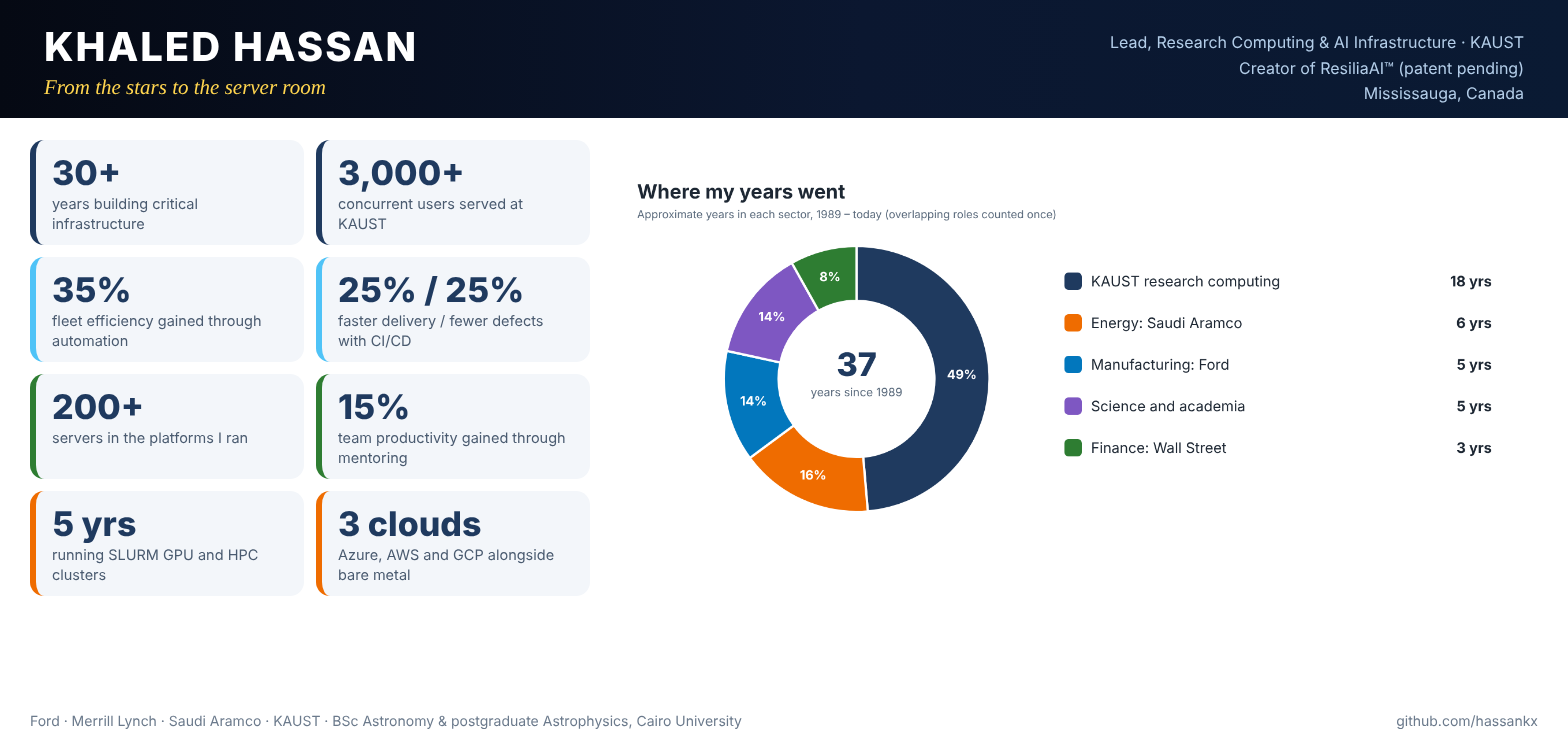
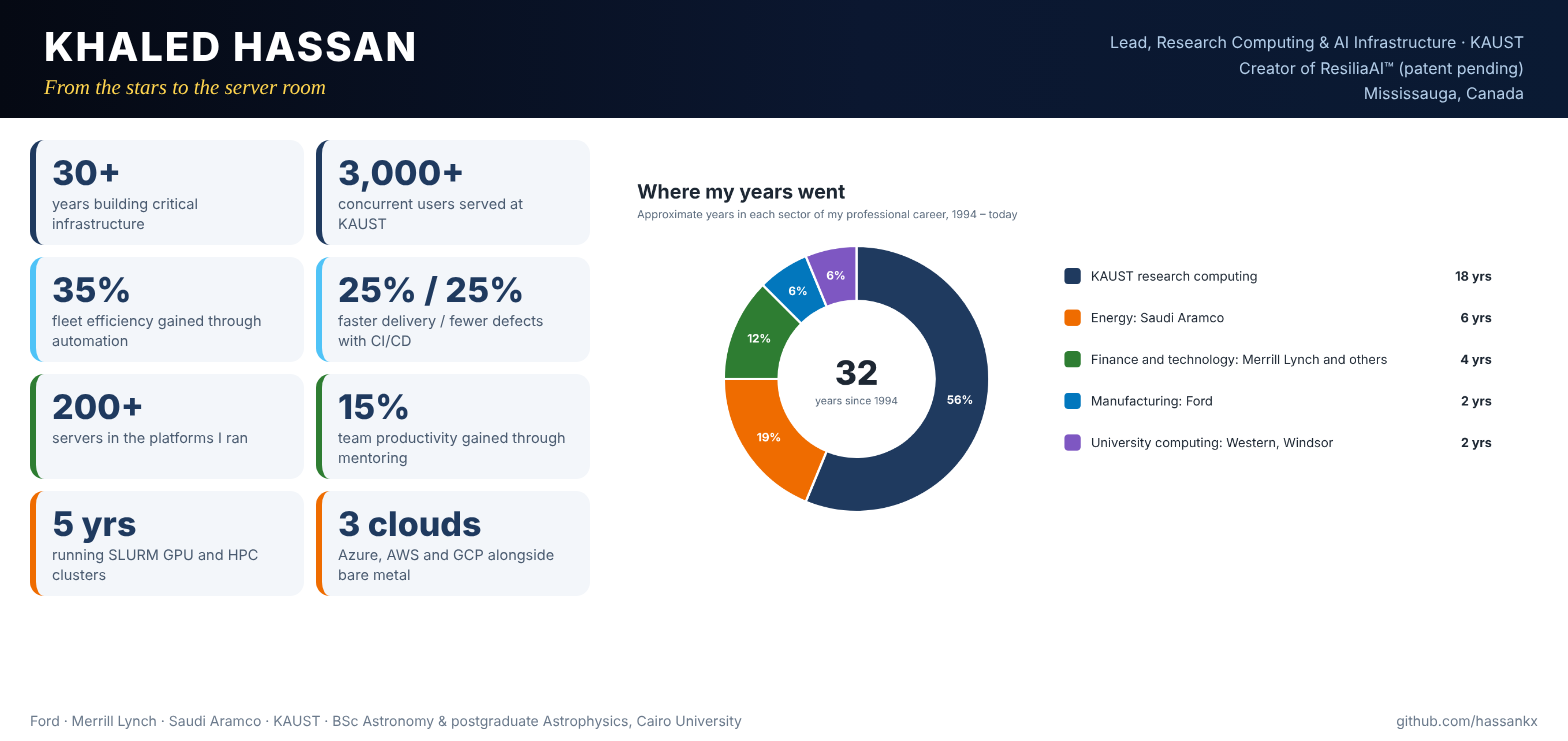
Align career history, charts and education with updated CV
Claude-Session: https://claude.ai/code/session_01MJNc3qNzhZ8CQBcSTnfG9L

diff --git a/README.md b/README.md
@@ -37,7 +37,7 @@ I trained as an **astrophysicist** and became an **infrastructure engineer**. Fo
 <td align="center" width="25%"><h2>30+</h2><sub>years building critical infrastructure</sub></td>
 <td align="center" width="25%"><h2>3,000+</h2><sub>concurrent users served at KAUST</sub></td>
 <td align="center" width="25%"><h2>200+</h2><sub>servers in the platforms I ran</sub></td>
-<td align="center" width="25%"><h2>9</h2><sub>employers, including Ford, Merrill Lynch, Saudi Aramco and KAUST</sub></td>
+<td align="center" width="25%"><h2>10</h2><sub>organizations, including Ford, Merrill Lynch, Saudi Aramco and KAUST</sub></td>
 </tr>
 <tr>
 <td align="center"><h2>35%</h2><sub>fleet efficiency gained through automation</sub></td>
@@ -63,7 +63,7 @@ I came to computing through science. My degrees are in astronomy and astrophysic
 
 I still work that way. I start from measurements, form a hypothesis, test it, and only then change something.
 
-In 1994 I moved from science into engineering as a UNIX system administrator at Ford Motor Company, running the servers behind its worldwide CAD/CAM/CAE engineering data, while also working in university computing at Western University and the University of Windsor. Since then my career has taken me through some of the most demanding environments an engineer can work in. I ran Sun Enterprise 10000 systems as a consultant, supported trading systems on Wall Street and helped rebuild them after September 11. I kept mission-critical systems running for one of the world's largest energy companies. For nearly two decades I have helped build and run the research computing behind King Abdullah University of Science and Technology, from before the university opened its doors to today's hybrid platform of HPC, GPU clusters, Kubernetes and three public clouds.
+In 1994 I moved from science into engineering, first in university computing at Western University and the University of Windsor, then as a UNIX system administrator at Ford Motor Company, running the servers behind its CAD/CAM/CAE engineering data. Since then my career has taken me through some of the most demanding environments an engineer can work in. I supported Sun systems for Chase Manhattan Bank, Motorola and Dow Jones, ran Sun Enterprise 10000 trading systems on Wall Street and helped rebuild them after September 11. I kept mission-critical systems running for one of the world's largest energy companies. For nearly two decades I have helped build and run the research computing behind King Abdullah University of Science and Technology, from before the university opened its doors to today's hybrid platform of HPC, GPU clusters, Kubernetes and three public clouds.
 
 Each of those places taught me the same lesson from a different angle. **Systems fail. What matters is how quickly you notice, how safely you recover, and whether you learn enough to stop it happening again.** I have spent my career getting better at all three and passing that on. I have managed and mentored engineers for more than five years across KAUST and Saudi Aramco, and I measure a good team by how calm it is during an outage.
 
@@ -77,7 +77,7 @@ I am a Canadian citizen based in Mississauga, Ontario.
 
 ## 🛰 My journey
 
-<p align="center"><img src="assets/chart-career-timeline.png" width="100%" alt="Career timeline from 1989 to today"></p>
+<p align="center"><img src="assets/chart-career-timeline.png" width="100%" alt="Career timeline from 1991 to today"></p>
 
 <p align="center"><img src="assets/chart-years-by-sector.png" width="100%" alt="Years in each sector"></p>
 
@@ -118,41 +118,49 @@ I am a Canadian citizen based in Mississauga, Ontario.
 
 | Challenge | What I did | Result |
 | --- | --- | --- |
-| Trading and forecasting ran on Sun Enterprise systems | Supported the UNIX infrastructure behind them | Stable trading platforms |
-| September 11 displaced entire trading teams | Helped rebuild trading environments so teams could resume work | Teams back to work when it mattered most |
+| Trading and forecasting ran on Sun Enterprise 10000 systems | Planned, implemented and operated the E10000 production servers, with Sun HA clusters across data centre sites and Sun Cluster 2.x for Oracle | Highly available trading platforms |
+| September 11 displaced entire trading teams | Rebuilt servers and executed the data recovery plan, restoring operations and data safely | Teams back to work when it mattered most |
+| Disaster recovery had to be real, not a document | Planned and ran the Sun Enterprise disaster-recovery infrastructure; designed backups with VERITAS NetBackup, Legato and HP OmniBack | Dependable recovery |
+| Operations were manual | Automated daily, weekly and monthly tasks with C, Korn and Bourne shell, Perl and C; wrote the E10000 and SSP run book | Less manual work, repeatable operations |
+| The business needed to plan infrastructure spend | Built infrastructure cost forecasts and what-if scenarios, and defined cost drivers and KPIs for monthly scorecards | Clearer technology investment decisions |
 
-### 💼 Bluestone Consulting Group and Timebridge GmbH: System Support Engineer (1999 – 2000)
-
-| Challenge | What I did | Result |
-| --- | --- | --- |
-| A Sun Enterprise 10000 platform needed to be planned and run | Administered Sun systems including Sun Cluster 2.2 on E10000 domains, and planned, implemented and operated the E10000 server infrastructure | A clustered, high-end UNIX platform in production |
-| The E10000 had to talk to an IBM mainframe's tape systems | Integrated an ESCON channel solution so the E10000 could emulate multiple tape drives to the mainframe | Mainframe and UNIX working together |
-| Operators needed clear procedures | Wrote the E10000 and SSP run book, including shutdown and dynamic reconfiguration steps | Repeatable, documented operations |
-| Backups had to be reliable | Designed backup strategies and ran VERITAS NetBackup and HP OmniBack; automated daily, weekly and monthly tasks with shell, Perl and C | Dependable backups and less manual work |
-| Customers needed support and training (Timebridge, part-time, 2000) | Supported Sun hardware and software, designed and installed customer systems, and trained customers and field engineers | Faster resolution and stronger customer teams |
-
-### 🚗 Ford Motor Company: UNIX System Administrator (1994 – 1999)
+### 🛰 Motorola and Dow Jones: System Support Engineer / Consultant (1999)
 
 | Challenge | What I did | Result |
 | --- | --- | --- |
-| Engineers worldwide depended on CAD/CAM/CAE product data | Planned, implemented and operated worldwide server infrastructure for fast transfer and secure storage of that data | Engineering data available and protected |
-| Global Metaphase and Team Data Management servers had to stay healthy | Administered Sun, HP and other UNIX servers; installed, configured, upgraded, monitored and tuned them; created and migrated TDM servers and databases | A stable product-data platform |
-| Server checks and operations were manual | Consolidated the Metaphase server-check scripts and wrote new tooling in C shell, Bourne shell and SQL/PL | Operations improved and automated |
-| Data had to be recoverable | Ran backup and restore for the core and workgroup servers | Reliable recovery |
+| Complex Sun hardware and software issues needed expert support | Isolated and resolved issues at complex level, focusing on integration and networking | Faster resolution |
+| New systems had to be designed and installed on site | Designed the architecture of installed systems and managed installation at customer sites | Systems delivered ready to run |
+| Customers and engineers needed to support themselves | Wrote procedures and documentation, and trained customers, field service engineers and support engineers | Stronger customer teams |
 
-### 🎓 University computing: Western University and University of Windsor (1996 – 1998)
+### 🏦 Bluestone Consulting: System Support Engineer, Sun Professional Services at Chase Manhattan Bank (1998 – 1999)
+
+| Challenge | What I did | Result |
+| --- | --- | --- |
+| Banking applications depended on Sun UNIX infrastructure | Installed, configured and maintained Sun SPARC servers and Solaris; monitored health and performance | Available, reliable banking systems |
+| Problems crossed hardware, OS, storage and network | Diagnosed and resolved issues with the bank's infrastructure teams, application owners and Sun support | Escalations closed |
+| Changes had to be safe | Patched and upgraded through approved change procedures; supported backup, recovery and service restoration | Controlled change and fast recovery |
+
+### 🚗 Ford Motor Company: UNIX System Administrator (1996 – 1998)
+
+| Challenge | What I did | Result |
+| --- | --- | --- |
+| Engineers depended on CAD/CAM/CAE product data | Administered the UNIX servers and workstations behind it, including Metaphase and Team Data Management | Engineering data available and protected |
+| Systems had to stay current and healthy | Installed operating systems, updates and patches; managed accounts, access, file systems and storage; monitored and tuned performance | A stable engineering platform |
+| Routine administration was manual | Automated it with shell scripts and coordinated maintenance with application teams and vendors | Operations improved and automated |
+
+### 🎓 University computing: Western University and University of Windsor (1994 – 1996)
 
 | Role | What I did |
 | --- | --- |
-| Programmer / Webmaster, Western University (1996 – 1997) | Programming and web services for a university faculty |
-| UNIX System Administrator, Faculty of Engineering, University of Windsor (1997 – 1998) | Ran the UNIX systems for the Faculty of Engineering |
+| Programmer / Webmaster, Faculties of Arts and Engineering, University of Western Ontario (1994 – 1995) | Built and maintained faculty websites, departmental programs and scripts |
+| UNIX System Administrator and Lab Manager, Faculty of Engineering, University of Windsor (1995 – 1996) | Ran the UNIX systems, engineering workstations and computer labs for teaching and research |
 
-### 🔭 Astronomy and astrophysics (1989 – 1994)
+### 🔭 Astronomy and astrophysics (Cairo University)
 
 | What I did | What it gave me |
 | --- | --- |
-| BSc in Astronomy (1989) and postgraduate degree in Astrophysics (1991), Cairo University; further astronomy and astrophysics studies at the University of Toronto | A scientist's discipline: measure, hypothesize, test |
-| Research and teaching | Scientific computing, data analysis, and the ability to explain complex ideas simply |
+| BSc in Astronomy (1991) and postgraduate degree in Astrophysics (1992), Cairo University; further astronomy and astrophysics studies at the University of Toronto | A scientist's discipline: measure, hypothesize, test |
+| Research and teaching alongside postgraduate studies | Scientific computing, data analysis, and the ability to explain complex ideas simply |
 
 ---
 
@@ -319,7 +327,7 @@ These are small tools in the same spirit as ResiliaAI: observe safely first, col
 
 ## 🎓 Education and certifications
 
-**Education:** Postgraduate Degree in Astrophysics (1991) · BSc in Astronomy (1989), Cairo University
+**Education:** Postgraduate Degree in Astrophysics (1992) · BSc in Astronomy (1991), Cairo University
 
 ![RHCE](https://img.shields.io/badge/RHCE-EE0000?style=flat-square&logo=redhat&logoColor=white) ![RHCSA](https://img.shields.io/badge/RHCSA-EE0000?style=flat-square&logo=redhat&logoColor=white) ![Security+](https://img.shields.io/badge/CompTIA_Security+-C8202F?style=flat-square) ![CySA+](https://img.shields.io/badge/CompTIA_CySA+-C8202F?style=flat-square) ![Linux+](https://img.shields.io/badge/CompTIA_Linux+-C8202F?style=flat-square) ![ITIL](https://img.shields.io/badge/ITIL_Foundation-5B2C83?style=flat-square) ![ISO 20000](https://img.shields.io/badge/ISO/IEC_20000-1F3A5F?style=flat-square) ![Cloud](https://img.shields.io/badge/Cloud_Computing_Foundation-1F3A5F?style=flat-square) ![SCSA](https://img.shields.io/badge/Sun_Certified_UNIX_Admin-F8981D?style=flat-square) ![Sun Cluster](https://img.shields.io/badge/Sun_Cluster_Installer-F8981D?style=flat-square)
 
